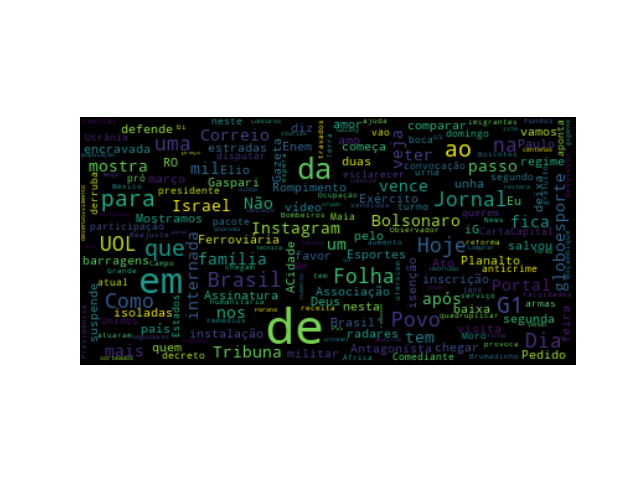
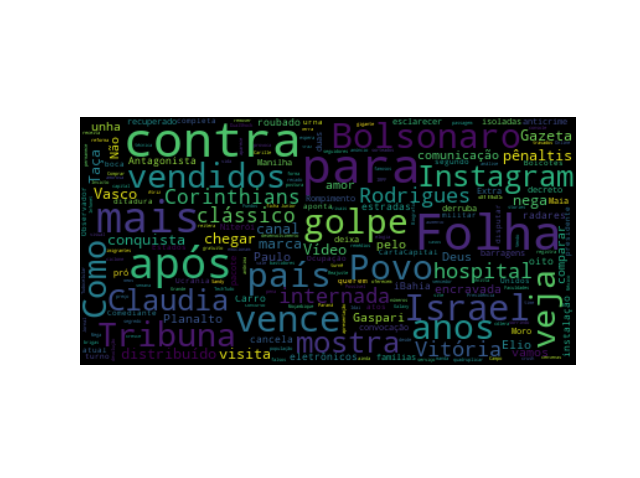
improvements

Changed region(s): [[0.125, 0.2343, 0.9062, 0.7615]]

diff --git a/googleNewsWordCloud.py b/googleNewsWordCloud.py
@@ -6,7 +6,10 @@ d = feedparser.parse('https://news.google.com/rss?hl=pt-BR&gl=BR&ceid=BR:pt-419'
 news = []
 
 for post in d.entries:
-  news.append(post.title)
+  post_list = post.title.split()
+  for word in post_list:
+    if (len(word)) >= 4:
+      news.append(word)
 
 text = ' '.join(news)
 
@@ -16,8 +19,6 @@ wordcloud = WordCloud().generate(text)
 # Display the generated image:
 # the matplotlib way:
 import matplotlib.pyplot as plt
-plt.imshow(wordcloud, interpolation='bilinear')
-plt.axis("off")
 
 # lower max_font_size
 wordcloud = WordCloud(max_font_size=40).generate(text)
